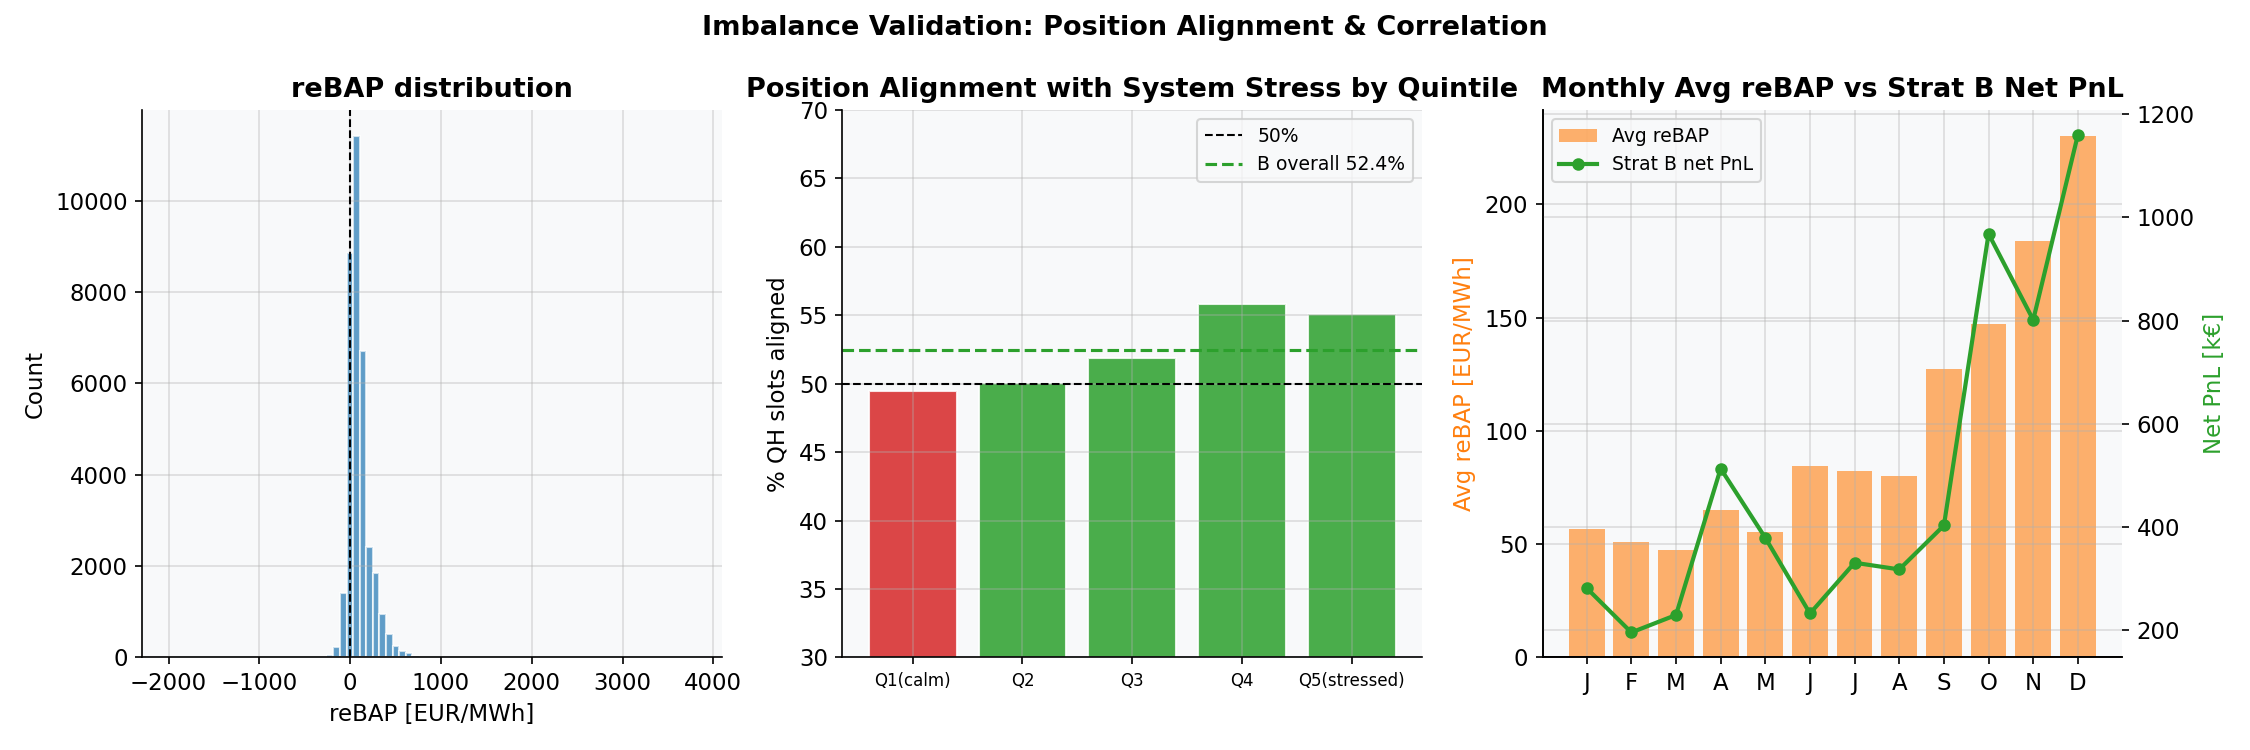
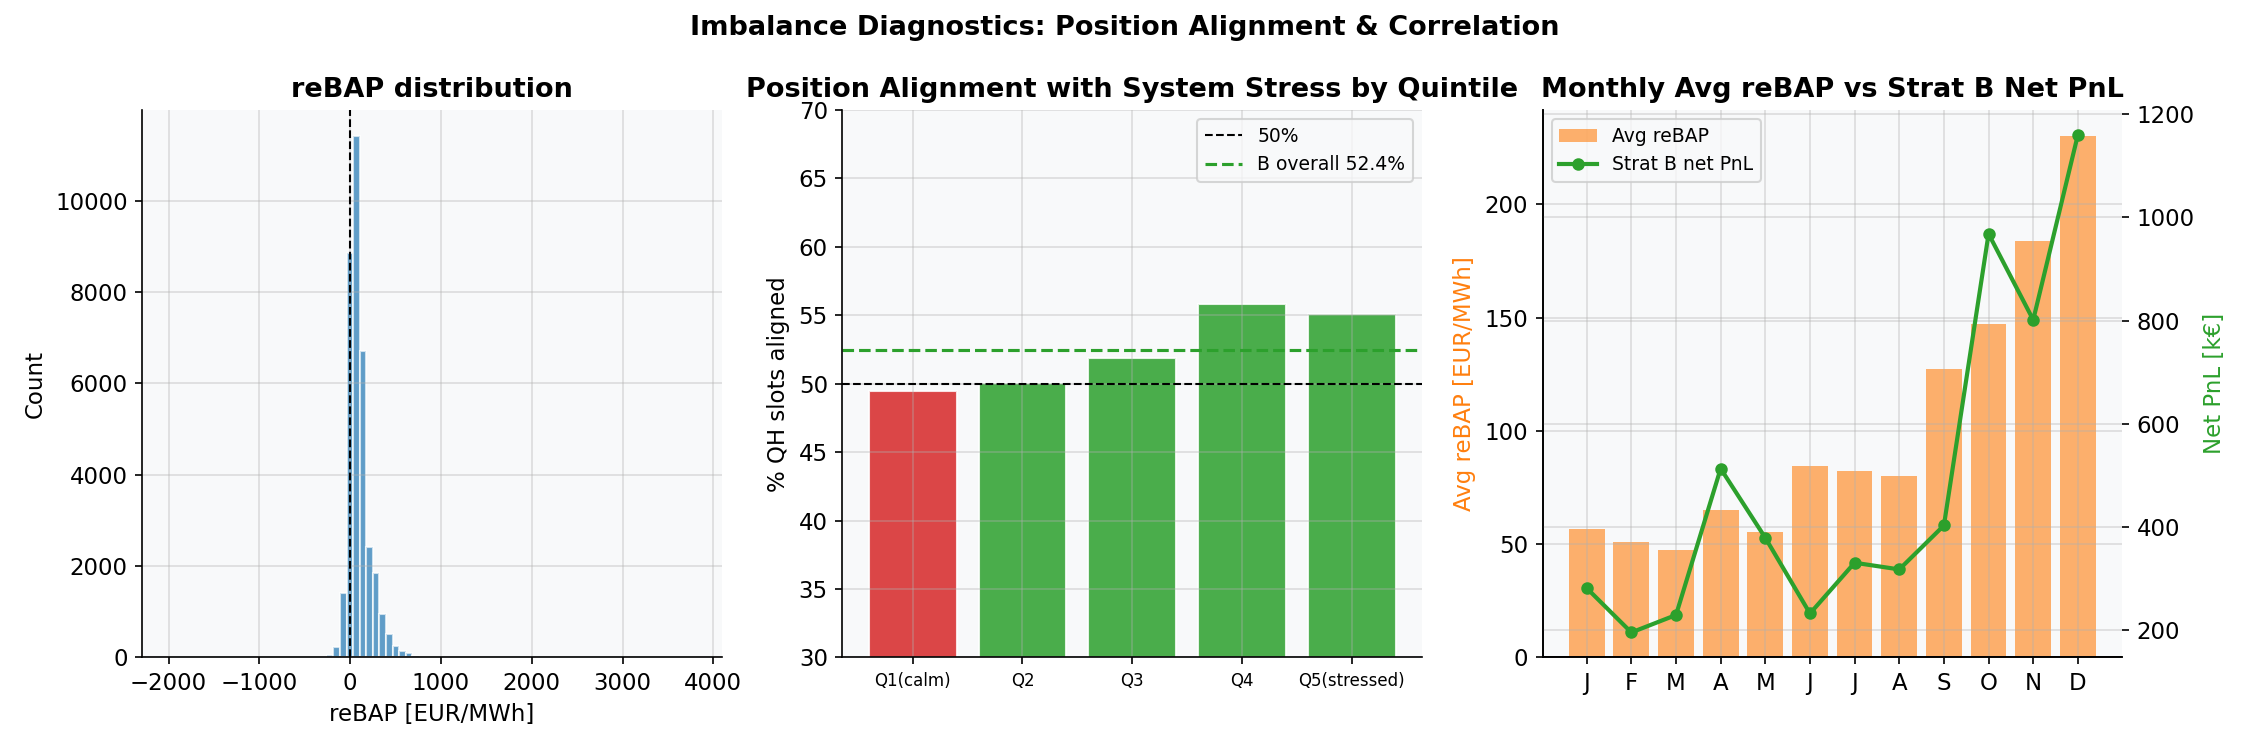
README fixes

Changed region(s): [[0.3111, 0.0, 0.6844, 0.0613]]

diff --git a/task2/.ipynb_checkpoints/analysis-checkpoint.py b/task2/.ipynb_checkpoints/analysis-checkpoint.py
@@ -577,7 +577,7 @@ def task_2_7(df: pd.DataFrame):
     ax.yaxis.set_major_formatter(mticker.FuncFormatter(lambda x, _: f"€{x/1e6:.1f}M"))
     ax.legend(fontsize=9)
 
-    # ── Figure 2: Signal validation -------------
+    # --- Figure 2: Signal validation -------------
     ax = axes[1]
     sc = ax.scatter(
         hourly["delta_re"] / 1e3, hourly["da_id_spread"],
@@ -595,7 +595,7 @@ def task_2_7(df: pd.DataFrame):
     ax.set_ylabel("Realized DA − ID Price [EUR/MWh]")
     ax.legend(fontsize=10)
 
-    # ── Figure 3: Monthly net PnL — A, B, C --------
+    # --- Figure 3: Monthly net PnL -- A, B, C --------
     ax = axes[2]
     months_lbl = ["Jan","Feb","Mar","Apr","May","Jun",
                   "Jul","Aug","Sep","Oct","Nov","Dec"]
@@ -620,7 +620,7 @@ def task_2_7(df: pd.DataFrame):
     plt.close(fig)
     print("  Saved task2_7_strategy.png")
 
-    # ── Figure 4: Intra-hour momentum ------
+    # -- Figure 4: Intra-hour momentum ------
     # For each QH slot (0--3 within each delivery hour), compute deviation
     # from that hour's mean ID price.
     qh["qh_slot"] = qh.index.minute // 15
@@ -757,7 +757,7 @@ def task_2_7_imbalance(df: pd.DataFrame, hourly: pd.DataFrame, qh: pd.DataFrame)
     lines2, lbl2 = ax2r.get_legend_handles_labels()
     ax.legend(lines1 + lines2, lbl1 + lbl2, fontsize=9)
 
-    fig.suptitle("Imbalance Validation: Position Alignment & Correlation",
+    fig.suptitle("Imbalance Diagnostics: Position Alignment & Correlation",
                  fontsize=13, fontweight="bold")
     fig.tight_layout()
     fig.savefig(os.path.join(PLOTS_DIR, "task2_7_imbalance_analysis.png"), dpi=150)

diff --git a/task2/analysis.py b/task2/analysis.py
@@ -577,7 +577,7 @@ def task_2_7(df: pd.DataFrame):
     ax.yaxis.set_major_formatter(mticker.FuncFormatter(lambda x, _: f"€{x/1e6:.1f}M"))
     ax.legend(fontsize=9)
 
-    # ── Figure 2: Signal validation -------------
+    # --- Figure 2: Signal validation -------------
     ax = axes[1]
     sc = ax.scatter(
         hourly["delta_re"] / 1e3, hourly["da_id_spread"],
@@ -595,7 +595,7 @@ def task_2_7(df: pd.DataFrame):
     ax.set_ylabel("Realized DA − ID Price [EUR/MWh]")
     ax.legend(fontsize=10)
 
-    # ── Figure 3: Monthly net PnL — A, B, C --------
+    # --- Figure 3: Monthly net PnL -- A, B, C --------
     ax = axes[2]
     months_lbl = ["Jan","Feb","Mar","Apr","May","Jun",
                   "Jul","Aug","Sep","Oct","Nov","Dec"]
@@ -620,7 +620,7 @@ def task_2_7(df: pd.DataFrame):
     plt.close(fig)
     print("  Saved task2_7_strategy.png")
 
-    # ── Figure 4: Intra-hour momentum ------
+    # -- Figure 4: Intra-hour momentum ------
     # For each QH slot (0--3 within each delivery hour), compute deviation
     # from that hour's mean ID price.
     qh["qh_slot"] = qh.index.minute // 15
@@ -757,7 +757,7 @@ def task_2_7_imbalance(df: pd.DataFrame, hourly: pd.DataFrame, qh: pd.DataFrame)
     lines2, lbl2 = ax2r.get_legend_handles_labels()
     ax.legend(lines1 + lines2, lbl1 + lbl2, fontsize=9)
 
-    fig.suptitle("Imbalance Validation: Position Alignment & Correlation",
+    fig.suptitle("Imbalance Diagnostics: Position Alignment & Correlation",
                  fontsize=13, fontweight="bold")
     fig.tight_layout()
     fig.savefig(os.path.join(PLOTS_DIR, "task2_7_imbalance_analysis.png"), dpi=150)

diff --git a/README.md b/README.md
@@ -110,7 +110,7 @@ Rule: charge at DA price minimum, discharge at DA price maximum after that. Tota
 
 ---
 
-## Task 2.7 – Trading Strategies
+## 2.7 Trading Strategies
 
 ## Disclaimer!
 
@@ -133,7 +133,7 @@ I have a separate project in power trading, so far DA-only and not using generat
 **Exchange fee: 0.10 EUR/MWh (ID leg)**
 Source: EPEX SPOT Price List (valid 1 Jan 2015), DE-AT-FR-CH Continuous Intraday Market = 0.10 EUR/MWh per side. Our strategy closes a DA position with an ID trade/s, paying the ID leg fee only. The DA leg fee is embedded in the auction clearing mechanism.
 
-**Execution cost -- bid-ask: 0.63 eur/MWh**
+**Execution cost -- bid-ask: 0.63 EUR/MWh**
 Source: Baule & Naumann (2022, MDPI Energies, doi:10.3390/en15176344), using the full EPEX SPOT order book history (2017–2018) for German hourly continuous intraday contracts. They show:
 
 - Mean buying premium vs DA: 0.59 EUR/MWh
@@ -145,7 +145,7 @@ This is the empirically measured average price paid above (or received below) th
 **On market impact modelling:**
 
 The 0.63 EUR/MWh captures bid-ask and presumably consequent temporary impact. Permanent market impact, i.e., the post-trade price adjustment after the orders move the book, needs to be added separately. 
-- Permanent impact from here 10.48550/arXiv.2009.07892: ~0.10 eur/MWh for 100 MW in liquid hours (very roughly determined from the plot).
+- Permanent impact from here 10.48550/arXiv.2009.07892: ~0.10 EUR/MWh for 100 MW in liquid hours (very roughly determined from the plot).
 
 | Component | Value | Source |
 |---|---|---|
@@ -165,7 +165,7 @@ The 0.63 EUR/MWh captures bid-ask and presumably consequent temporary impact. Pe
 
 **ΔRE = (wind_id + pv_id) − (wind_da + pv_da)** [MW]
 
-Both forecasts are available before trading closes. The sign of ΔRE requires no parameter fitting — it is grounded in supply/demand physics:
+Both forecasts are available before trading closes. The sign of ΔRE is grounded in supply/demand:
 - ΔRE > 0: more supply than DA priced -> ID price falls below DA -> short the spread
 - ΔRE < 0: less supply than expected -> ID price rises above DA -> long the spread
 
@@ -178,7 +178,10 @@ Both forecasts are available before trading closes. The sign of ΔRE requires no
 **Strategy C**: 15-min product, position sizing proportional to how unusual |ΔRE| is relative to the same hour-of-day, using a rolling z-score to account for seasonality.
 z = (|ΔRE| - rolling_mean_same_hour) / rolling_std_same_hour.
 
-scalar = clip(z, 0, 1); 0 = at or below the conditional mean -> no position; 1 = at least one conditional std above the mean -> full 100 MW.
+scalar = clip(z, 0, 1); 
+
+0 = at or below the conditional mean -> no position; 1 = at least one conditional std above the mean -> full 100 MW.
+
 The rolling window uses 30 days of same-hour observations and is shifted by 1 period to avoid look-ahead. This is still in-sample and should be validated OOS.
 
 ### Results
